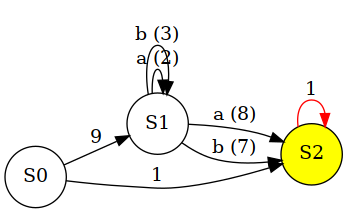
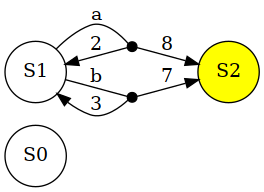
prova1

diff --git a/mdp.py b/mdp.py
@@ -18,6 +18,7 @@ class gramPrintListener(gramListener):
         print("States: %s" % str(self.model.states))
 
     def enterDefactions(self, ctx):
+        # Salva le azioni come lista
         self.model.actions = [str(x) for x in ctx.ID()]
         print("Actions: %s" % str(self.model.actions))
 
@@ -26,20 +27,16 @@ class gramPrintListener(gramListener):
         dep = ids.pop(0)
         act = ids.pop(0)
         weights = [int(str(x)) for x in ctx.INT()]
-
         for i in range(len(ids)):
             self.model.action_transitions.append({'from': dep, 'action': act, 'to': ids[i], 'weight': weights[i]})
-
         print("Transition from %s with action %s and targets %s with weights %s" % (dep, act, ids, weights))
 
     def enterTransnoact(self, ctx):
         ids = [str(x) for x in ctx.ID()]
         dep = ids.pop(0)
         weights = [int(str(x)) for x in ctx.INT()]
-
         for i in range(len(ids)):
             self.model.transitions.append({'from': dep, 'to': ids[i], 'weight': weights[i]})
-
         print("Transition from %s with no action and targets %s with weights %s" % (dep, ids, weights))   
 
 class MarkovGraph:
@@ -47,27 +44,52 @@ class MarkovGraph:
         self.model = model
         plt.ion()
         self.fig, self.ax = plt.subplots()
-        self.plot_complete_graph()
-
-    def plot_complete_graph(self, highlight_edge=None, highlight_node=None):
+        
+    def plot_complete_graph(self, highlight_edge=None, highlight_intermediate=None, highlight_node=None):
+        # Ricrea il grafo da zero
         self.fp = Digraph('MarkovPath', filename='MarkovPath')
         self.fp.attr(rankdir='LR', size='8,5')
-        self.fp.attr('node', shape='circle')
-
-        for state in self.model.states:
-            fill = 'yellow' if state == highlight_node else 'white'
-            self.fp.node(state, style='filled', fillcolor=fill)
-
-        for transition in self.model.transitions:
-            color = 'red' if highlight_edge and transition['from'] == highlight_edge[0] and transition['to'] == highlight_edge[1] else 'black'
-            self.fp.edge(transition['from'], transition['to'], label=str(transition['weight']), color=color)
-
+        
         if hasattr(self.model, 'action_transitions') and self.model.action_transitions:
+            # Modalità MDP: utilizza nodi intermedi per le transizioni con azione
+            self.fp.attr('node', shape='circle')
+            for state in self.model.states:
+                fill = 'yellow' if state == highlight_node else 'white'
+                self.fp.node(state, style='filled', fillcolor=fill)
+            
+            # Raggruppa le transizioni per coppia (stato di partenza, azione)
+            action_groups = {}
             for transition in self.model.action_transitions:
-                color = 'red' if highlight_edge and transition['from'] == highlight_edge[0] and transition['to'] == highlight_edge[1] else 'black'
-                label = f"{transition['action']} ({transition['weight']})"
-                self.fp.edge(transition['from'], transition['to'], label=label, color=color)
-
+                key = (transition['from'], transition['action'])
+                if key not in action_groups:
+                    action_groups[key] = []
+                action_groups[key].append(transition)
+            
+            # Per ogni gruppo crea un nodo intermedio e disegna le frecce
+            for (from_state, action), transitions in action_groups.items():
+                intermediate_node = f"{from_state}_{action}_intermediate"
+                edge_color = 'red' if highlight_intermediate == intermediate_node else 'black'
+                # Nodo intermedio (lo evidenzia se necessario)
+                self.fp.node(intermediate_node, shape='point', width='0.1', color=edge_color)
+                # Arco dal nodo di partenza al nodo intermedio con etichetta azione
+                self.fp.edge(from_state, intermediate_node, arrowhead='none',
+                             label=action, color=edge_color, fontcolor=edge_color)
+                # Arco dal nodo intermedio agli stati di destinazione con etichetta peso
+                for t in transitions:
+                    self.fp.edge(intermediate_node, t['to'], label=str(t['weight']),
+                                 color=edge_color, fontcolor=edge_color)
+        else:
+            # Modalità MC: evidenzia lo stato corrente e, se presente, la transizione corrente (highlight_edge)
+            self.fp.attr('node', shape='circle')
+            for state in self.model.states:
+                fill = 'yellow' if state == highlight_node else 'white'
+                self.fp.node(state, style='filled', fillcolor=fill)
+            for transition in self.model.transitions:
+                # Se l'arco corrisponde a highlight_edge, lo coloriamo di rosso
+                edge_color = 'red' if highlight_edge and transition['from'] == highlight_edge[0] and transition['to'] == highlight_edge[1] else 'black'
+                self.fp.edge(transition['from'], transition['to'], label=str(transition['weight']),
+                             color=edge_color, fontcolor=edge_color)
+                
         self.fp.render(format='png', cleanup=True)
         self.update_plot()
 
@@ -83,9 +105,17 @@ class MarkovGraph:
         current_state = str(self.model.actual_state)
         previous_state = self.model.path[-2] if len(self.model.path) > 1 else None
 
-        highlight_edge = (previous_state, current_state) if previous_state else None
-
-        self.plot_complete_graph(highlight_edge=highlight_edge, highlight_node=current_state)
+        if hasattr(self.model, 'action_transitions') and self.model.action_transitions:
+            # Modalità MDP: evidenzia il nodo intermedio relativo alla transizione corrente
+            action = getattr(self.model, 'last_action', None)
+            highlight_intermediate = None
+            if previous_state and action is not None:
+                highlight_intermediate = f"{previous_state}_{action}_intermediate"
+            self.plot_complete_graph(highlight_intermediate=highlight_intermediate, highlight_node=current_state)
+        else:
+            # Modalità MC: evidenzia l'arco dalla transizione (stato precedente -> stato corrente)
+            highlight_edge = (previous_state, current_state) if previous_state else None
+            self.plot_complete_graph(highlight_edge=highlight_edge, highlight_node=current_state)
 
 
 def main():
@@ -98,13 +128,18 @@ def main():
     walker = ParseTreeWalker()
     walker.walk(printer, tree)
 
+    # Genera il modello; se è MDP, si usa la versione modificata
     model = temp_model.generate_model()
+    if temp_model.verify_model() == 'MDP':
+        # Sostituisci il modello con la versione modificata per memorizzare last_action
+        model.__class__ = MarkovDecisionProcess
+
     model.build_transition_matrix()
 
-    markov_graph = MarkovGraph(model) 
+    markov_graph = MarkovGraph(model)
     markov_graph.plot_complete_graph()
 
-    if isinstance(model, MarkovDecisionProcess):
+    if hasattr(model, 'action_transitions') and model.action_transitions:
         actions = model.simulation_init()
         for _ in range(10):
             if len(actions) == 0:

diff --git a/models.py b/models.py
@@ -178,40 +178,24 @@ class MarkovDecisionProcess(MarkovChain):
     def simulation_step(self, action):
         if action is None:
             possible_states, probabilities = super().allowed_transitions(self.actual_state)
-
             self.print_allowed_transitions(possible_states, probabilities)
-
             next_state = np.random.choice(possible_states, p=probabilities)
-
             print(f'>>> Transition chosen: {self.actual_state}->{next_state}\n')
-
             self.actual_state = next_state
             self.path.append(self.actual_state)
-
             next_actions = self.verify_actions(self.actual_state)
-
-            print(f'>>> Possible actions: ', end='')
-            for action in next_actions:
-                print(f'{action} ', end='')
-            print()
-
+            # In questo ramo last_action rimane invariato (o potrebbe essere impostato a None)
             return self.actual_state, next_actions
         else:
             print(f'>>> Action performed: {action}')
-
+            self.last_action = action  # IMPOSTA CORRETTAMENTE last_action
             possible_states, probabilities = self.allowed_transitions(self.actual_state, action)
-            
-            super().print_allowed_transitions(possible_states, probabilities)
-
+            self.print_allowed_transitions(possible_states, probabilities)
             next_state = np.random.choice(possible_states, p=probabilities)
-
             print(f'>>> Transition chosen: {self.actual_state}->{next_state}\n')
-
             self.actual_state = next_state
             self.path.append(self.actual_state)
-
             next_actions = self.verify_actions(self.actual_state)
-
             return self.actual_state, next_actions
 
     def verify_actions(self, state):
